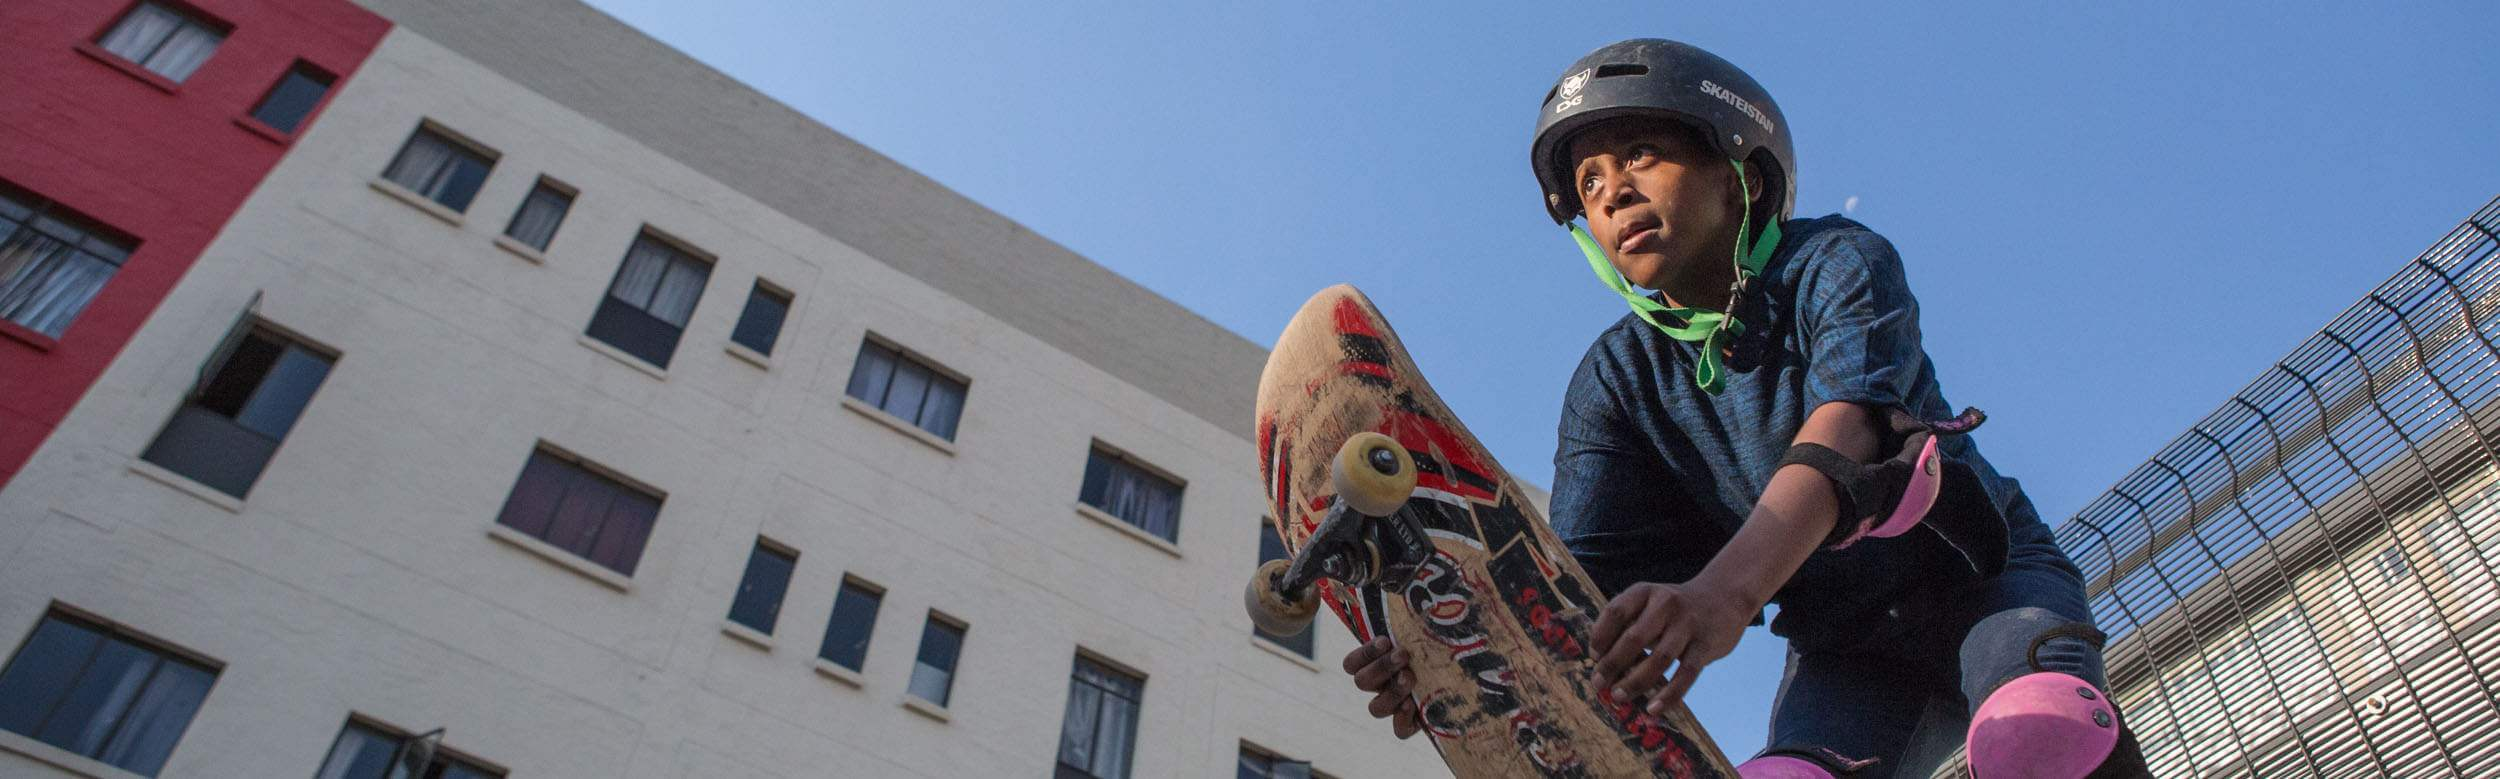
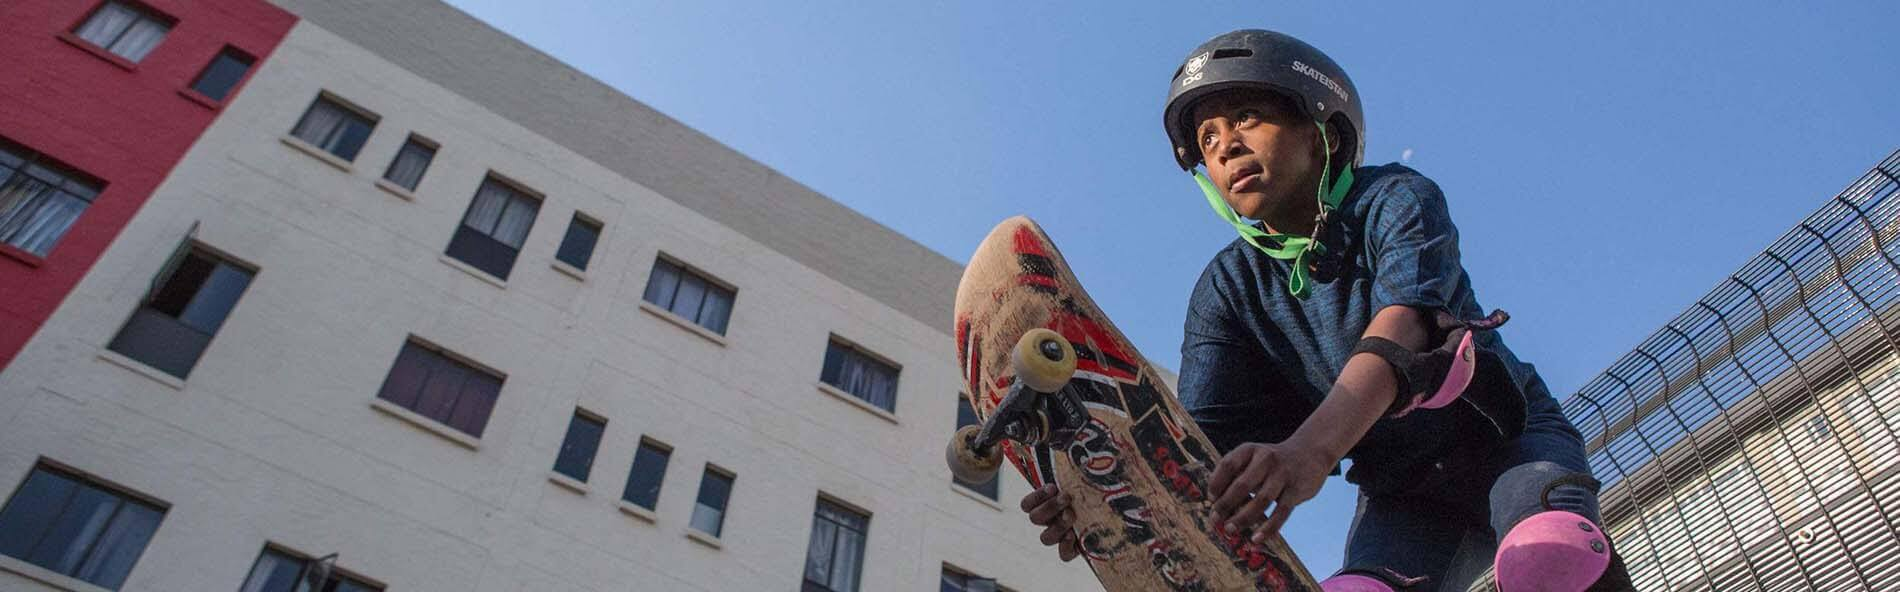
added promo header image dimensions

Changed region(s): [[0.8384, 0.2432, 1.0, 1.0], [0.9937, 0.8209, 1.0, 0.8514]]

diff --git a/sass/kss/donate.scss b/sass/kss/donate.scss
@@ -29,4 +29,18 @@
   position: relative;
 }
 
+.kss-image-dimension {
+  position:relative;
+  color: #fff;
+  display:block;
+  text-align: center;
+  margin-top: 10%;
+  @media (min-width: 1024px) {
+    margin-top: 5%;
+  }
+}
 
+#kss-node .kss-modifier__example.promo-header  {
+  margin-right:-20px;
+  margin-left: -20px;
+}
